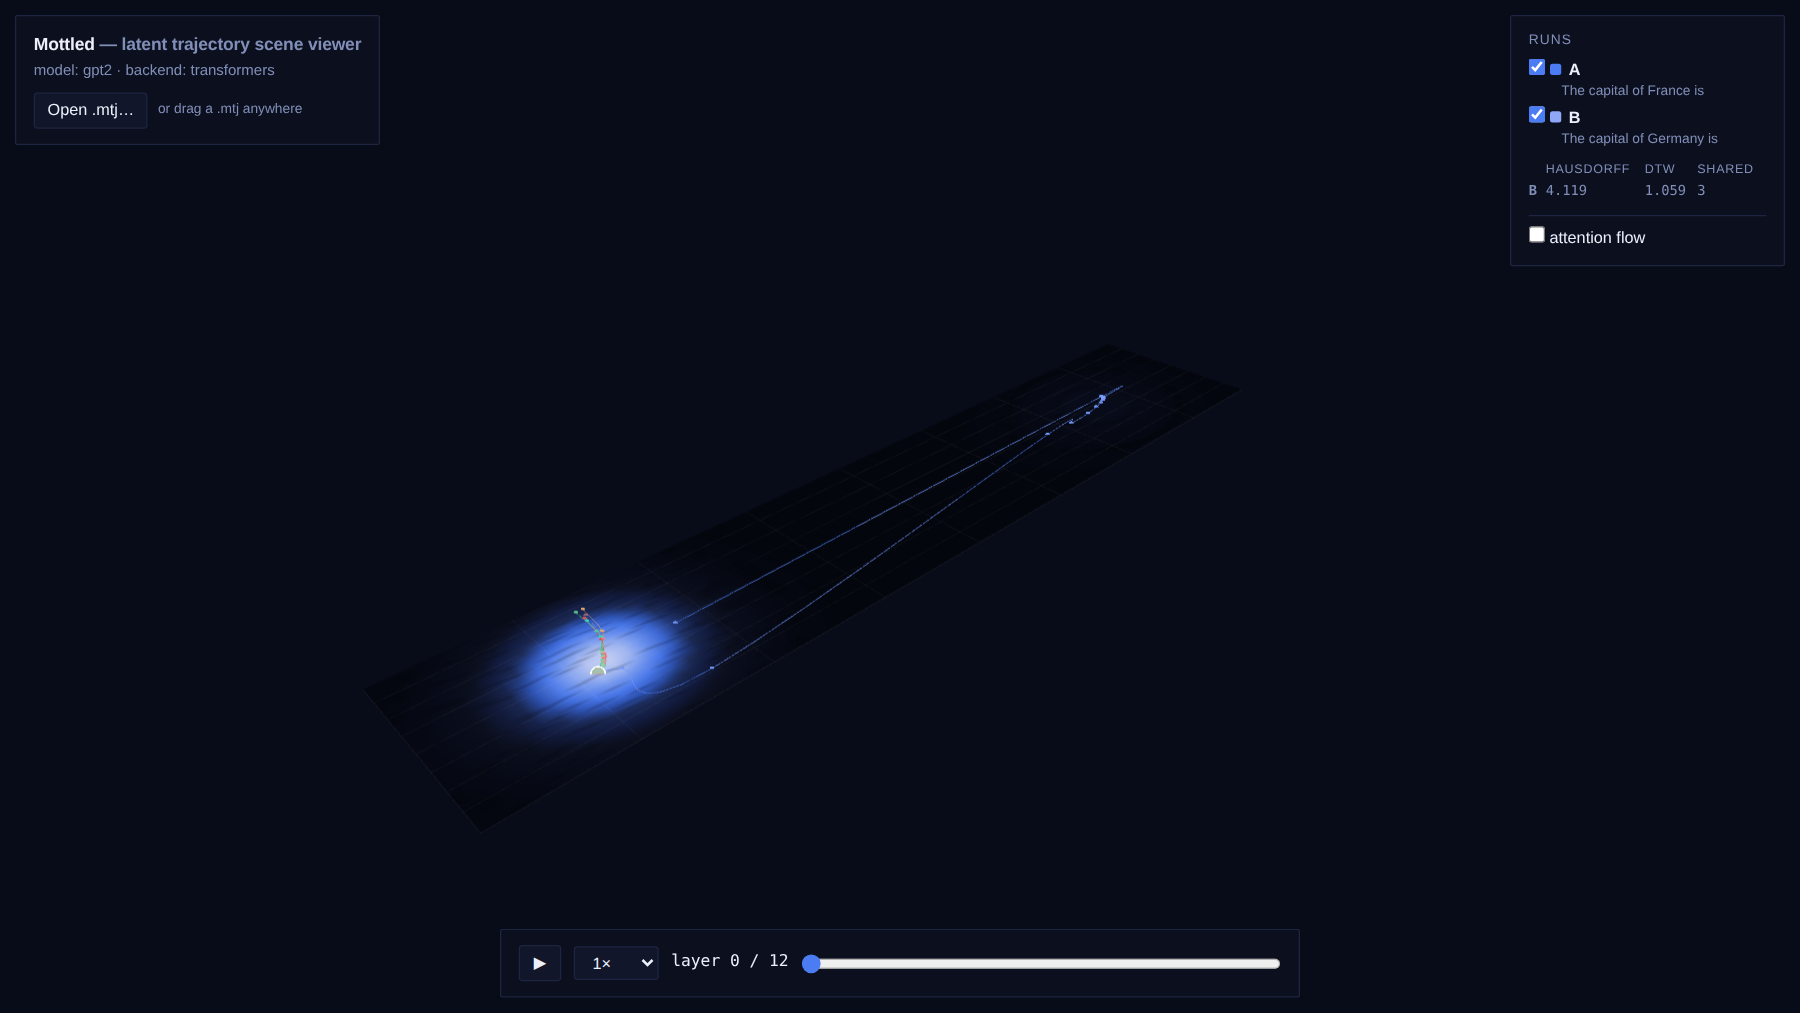
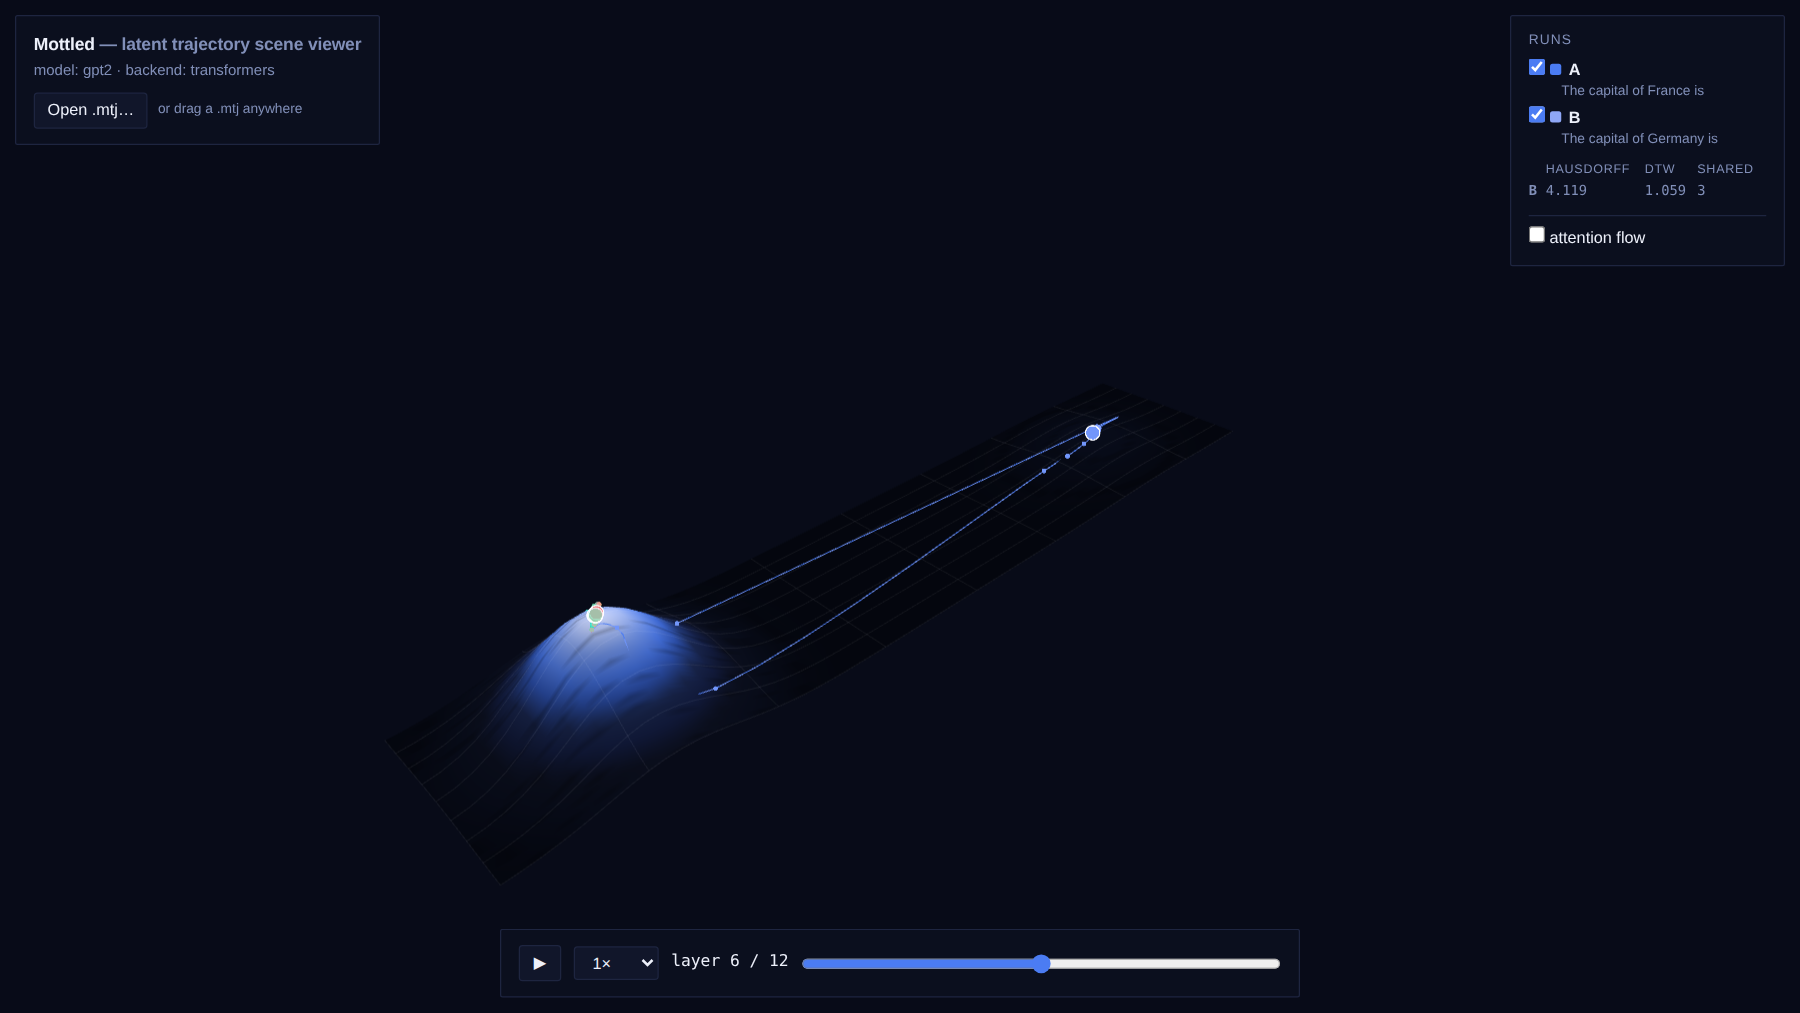
Fix real-model scene rendering: z relief, marble clipping, dash scale
Real-model scenes (GPT-2) span hundreds of units in x/y while terrain
height is normalized 0..1, which broke three things at once in the
viewer: the relief flattened into an invisible pancake, marbles sank
into the surface and depth-clipped into white half-domes, and dash
patterns (counted per fine segment) turned into sparse giant strokes
on long layer spans. Synthetic scenes never showed it because their
spans are ~8 units.

- Viewer: uniform z exaggeration on load (a pure view transform,
  applied identically to terrain and trajectories) until relief reads
  at ~10% of the horizontal span; never shrinks existing scenes.
- Viewer: dashes are now cut by accumulated arc length in world units,
  with a minimum-step guard so float rounding can never stall the walk
  (the naive version hit a denormal-chunk infinite loop that exploded
  the vertex array - "Invalid array length").
- Viewer: marbles and the pick highlight draw with depth testing off,
  like the Plotly reference - a screen-space sprite depth-tested
  against the surface it rides on slices into a half-dome; zEps lift
  raised to 5% of relief.
- Explorer (ui.py): matching fix - scene aspect keeps data proportions
  but never lets relief drop below 12% of the box.
- README's GPT-2 viewer screenshot regenerated with the fixed
  rendering.

Verified on all four sample scenes in headless Chromium (terminating
dash walks confirmed in Node for each) plus the full suites:
159 Python + 9 Node passing.
[…]

diff --git a/viewer/main.js b/viewer/main.js
@@ -213,28 +213,43 @@ function buildTerrain(t) {
            zmin, zmax };
 }
 
-function buildRun(run, runIdx, colorBase) {
+function buildRun(run, runIdx, colorBase, dashUnit) {
   const [N, L] = run.points.shape, pts = run.points.data;
   const alpha = runIdx === 0 ? 1.0 : OVERLAY_ALPHA;
   const dash = DASH_CYCLE[runIdx % DASH_CYCLE.length];
+  const patLen = dash ? dash.reduce((a, b) => a + b, 0) * dashUnit : 0;
   const trajs = [], lineVerts = [], lineCols = [];
   for (let j = 0; j < N; j++) {
     const rgb = hexRGB(PALETTE[(colorBase + j) % PALETTE.length]);
     const fine = catmullRom(pts.subarray(j * L * 3, (j + 1) * L * 3), L);
     const nFine = fine.length / 3 - 1;
-    let phase = 0;
+    const emit = (x0, y0, z0, x1, y1, z1) => {
+      lineVerts.push(x0, y0, z0, x1, y1, z1);
+      lineCols.push(rgb[0], rgb[1], rgb[2], alpha, rgb[0], rgb[1], rgb[2], alpha);
+    };
+    // Dashes are cut by accumulated arc length (world units), so the
+    // pattern stays even whether a layer span covers millimetres or
+    // hundreds of units (real-model scenes).
+    let dpos = 0;
     for (let s = 0; s < nFine; s++) {
-      let draw = true;
-      if (dash) { // dash by segment skipping over the draw/skip pattern
-        let p = phase % dash.reduce((a, b) => a + b, 0), di = 0;
-        while (p >= dash[di]) { p -= dash[di]; di++; }
-        draw = di % 2 === 0;
-        phase++;
-      }
-      if (draw) {
-        lineVerts.push(fine[s * 3], fine[s * 3 + 1], fine[s * 3 + 2],
-                       fine[s * 3 + 3], fine[s * 3 + 4], fine[s * 3 + 5]);
-        lineCols.push(rgb[0], rgb[1], rgb[2], alpha, rgb[0], rgb[1], rgb[2], alpha);
+      const x0 = fine[s * 3], y0 = fine[s * 3 + 1], z0 = fine[s * 3 + 2];
+      const x1 = fine[s * 3 + 3], y1 = fine[s * 3 + 4], z1 = fine[s * 3 + 5];
+      if (!dash) { emit(x0, y0, z0, x1, y1, z1); continue; }
+      const segLen = Math.hypot(x1 - x0, y1 - y0, z1 - z0);
+      let done = 0;
+      while (done < segLen - 1e-9) {
+        let p = dpos % patLen, di = 0;
+        while (di < dash.length && p >= dash[di] * dashUnit) { p -= dash[di] * dashUnit; di++; }
+        if (di >= dash.length) { di = 0; p = 0; }  // float residue at the cycle seam
+        // the minimum step keeps float rounding from ever stalling the walk
+        const chunk = Math.min(Math.max(dash[di] * dashUnit - p, dashUnit * 1e-3),
+                               segLen - done);
+        if (di % 2 === 0) {
+          const t0 = done / segLen, t1 = (done + chunk) / segLen;
+          emit(x0 + (x1 - x0) * t0, y0 + (y1 - y0) * t0, z0 + (z1 - z0) * t0,
+               x0 + (x1 - x0) * t1, y0 + (y1 - y0) * t1, z0 + (z1 - z0) * t1);
+        }
+        done += chunk; dpos += chunk;
       }
     }
     trajs.push({ fine, rgb, label: run.trajectoryLabels[j] != null ? String(run.trajectoryLabels[j]) : `#${j}` });
@@ -280,11 +295,33 @@ function setScene(scene) {
   state.playing = false;
   state.pick = null;
   state.visible = scene.runs.map(() => true);
+
+  // Real-model scenes span hundreds of units in x/y while terrain height is
+  // normalized 0..1 — relief flattens into invisibility and marbles sink
+  // into the surface. Exaggerate z uniformly (a pure view transform applied
+  // identically to terrain and trajectories, so all spatial relationships
+  // are preserved) until relief reads at ~10% of the horizontal span.
+  const tzArr = scene.terrain.z.data, txArr = scene.terrain.x.data, tyArr = scene.terrain.y.data;
+  let tzmin = Infinity, tzmax = -Infinity;
+  for (const v of tzArr) { if (v < tzmin) tzmin = v; if (v > tzmax) tzmax = v; }
+  const spanXY = Math.hypot(txArr[txArr.length - 1] - txArr[0],
+                            tyArr[tyArr.length - 1] - tyArr[0]) || 1;
+  const relief = tzmax - tzmin;
+  const zScale = relief > 1e-9 ? Math.max(1, 0.10 * spanXY / relief) : 1;
+  if (zScale > 1) {
+    for (let i = 0; i < tzArr.length; i++) tzArr[i] *= zScale;
+    for (const run of scene.runs) {
+      const p = run.points.data;
+      for (let i = 2; i < p.length; i += 3) p[i] *= zScale;
+    }
+  }
+
   state.terrain = buildTerrain(scene.terrain);
   state.runs = [];
+  const dashUnit = spanXY / 500;  // world-unit length of one dash-pattern tick
   let colorBase = 0, totalTrajs = 0, maxAttn = 0;
   scene.runs.forEach((run, i) => {
-    state.runs.push(buildRun(run, i, colorBase));
+    state.runs.push(buildRun(run, i, colorBase, dashUnit));
     colorBase += run.points.shape[0];
     totalTrajs += run.points.shape[0];
     if (run.attention) maxAttn += run.attention.shape[1] * 3 * 2;
@@ -319,7 +356,7 @@ function setScene(scene) {
   const target = [(tlo[0] + thi[0]) / 2, (tlo[1] + thi[1]) / 2, (tlo[2] + thi[2]) / 2];
   state.cam = { theta: -2.35, phi: 0.55, dist: Math.min(diag * 1.05, tdiag * 1.7), target };
   state.diag = diag;
-  state.zEps = (state.terrain.zmax - state.terrain.zmin) * 0.02 || 0.02;
+  state.zEps = (state.terrain.zmax - state.terrain.zmin) * 0.05 || 0.02;
 
   buildUI(scene);
   rebuildAttention();
@@ -455,8 +492,13 @@ function frame(now) {
   gl.bindBuffer(gl.ARRAY_BUFFER, dynPoints.bufs.col); gl.bufferSubData(gl.ARRAY_BUFFER, 0, col);
   gl.bindBuffer(gl.ARRAY_BUFFER, dynPoints.bufs.size); gl.bufferSubData(gl.ARRAY_BUFFER, 0, size);
   gl.uniform1f(rimLoc, 1);
+  // Marbles and the pick highlight always face the camera whole — depth
+  // testing a screen-space sprite against the surface it rides on slices it
+  // into a half-dome (the Plotly reference draws markers on top as well).
+  gl.disable(gl.DEPTH_TEST);
   gl.bindVertexArray(dynPoints.vao);
   gl.drawArrays(gl.POINTS, 0, n);
+  gl.enable(gl.DEPTH_TEST);
 
   gl.depthMask(true);
   gl.disable(gl.BLEND);

diff --git a/ui.py b/ui.py
@@ -435,12 +435,21 @@ def render(
 
     axis = {"showbackground": False, "gridcolor": "#1E2540",
             "zerolinecolor": "#283050", "color": "#818FB8"}
+    # Real-model scenes span hundreds of units in x/y while terrain height is
+    # normalized 0..1; pure "data" aspect flattens the relief into
+    # invisibility. Keep data proportions but never let relief drop below
+    # ~12% of the box (the web viewer applies the same rule).
+    sx = float(surface.x.max() - surface.x.min()) or 1.0
+    sy = float(surface.y.max() - surface.y.min()) or 1.0
+    sz = float(surface.z.max() - surface.z.min()) or 1.0
+    m = max(sx, sy)
     fig.update_layout(
         scene={
             "xaxis": {"title": "manifold x", **axis},
             "yaxis": {"title": "manifold y", **axis},
             "zaxis": {"title": "potential", **axis},
-            "aspectmode": "data",
+            "aspectmode": "manual",
+            "aspectratio": {"x": sx / m, "y": sy / m, "z": max(sz / m, 0.12)},
         },
         margin={"l": 0, "r": 0, "t": 24, "b": 0},
         height=680,